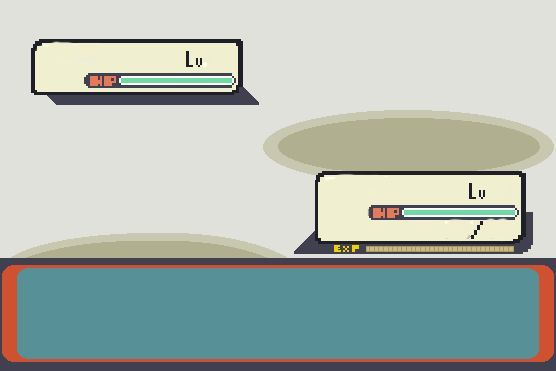
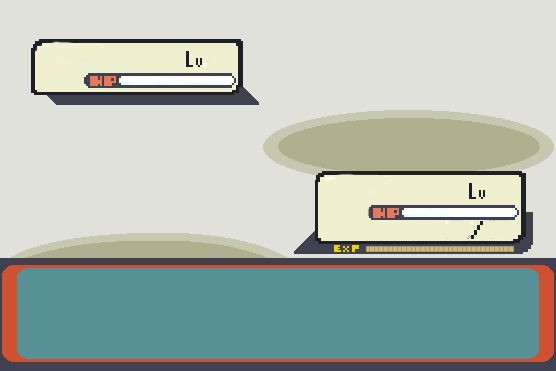
JS: avanzando pokemon

Changed region(s): [[0.7032, 0.5633, 0.9478, 0.593], [0.214, 0.2075, 0.4281, 0.2372]]

diff --git a/DWC_JS/PokeVue/js/main.js b/DWC_JS/PokeVue/js/main.js
@@ -7,12 +7,14 @@ const app = Vue.createApp({
             selectedPokemonsInModal: { player1: [], player2: [] },
             draggedPokemon: null,
             draggedFrom: null,
-            centerPokemons: [],
+            centerPokemons: { left: "", right: "" },
             savedPokemons: {},
             showWelcomeModal: true,
             showPvEModal: false,
             showPvPModal: false,
-            currentMode: null
+            currentMode: null,
+            hoveredPokemon: null,
+            hoverSide: null
         };
     },
 
@@ -105,9 +107,27 @@ const app = Vue.createApp({
             // If 5 Pokémon are selected in PvE mode, close the modal
             if (this.currentMode === 'pve' && this.selectedPokemonsInModal.player1.length === 5) {
                 this.selectedPokemonsLeft = [...this.selectedPokemonsInModal.player1];
+                this.selectedPokemonsRight = this.generateRandomNumbers().map(id => ({
+                    id,
+                    name: this.allPokemons.find(p => p.id === id)?.name || `Pokemon ${id}`
+                }));
                 this.closePvEModal();
+                this.autoPlaceFirstOpponent();
             }
         },
+
+        showPokemonStats(pokemon, side) {
+            console.log("Showing stats for:", pokemon.name, "on side:", side); // Debugging
+            this.hoveredPokemon = pokemon;
+            this.hoverSide = side;
+        },
+    
+        hidePokemonStats() {
+            console.log("Hiding stats"); // Debugging
+            this.hoveredPokemon = null;
+            this.hoverSide = null;
+        },
+        
 
         handleDragStart(pokemonId, side) {
             this.draggedPokemon = pokemonId;
@@ -194,12 +214,36 @@ const app = Vue.createApp({
         },
 
         placePokemonInCenter(pokemonEntry) {
-            this.centerPokemons = this.centerPokemons.filter(pokemon => pokemon.class !== pokemonEntry.class);
-            this.centerPokemons.push(pokemonEntry);
-            this.updateBattleMoves(pokemonEntry.moves);
+            // Ensure the correct slot is updated based on the Pokémon's original side
+            if (pokemonEntry.class.includes('overlay-image-left')) {
+                this.centerPokemons.left = pokemonEntry; // Left-side Pokémon
+            } else {
+                this.centerPokemons.right = pokemonEntry; // Right-side Pokémon
+            }
+        
+            // Update battle moves only for the left Pokémon (the player’s Pokémon)
+            if (pokemonEntry.class.includes('overlay-image-left')) {
+                this.updateBattleMoves(pokemonEntry.moves);
+            }
+        
             this.draggedPokemon = null;
             this.draggedFrom = null;
+        },        
+
+        autoPlaceFirstOpponent() {
+            if (this.selectedPokemonsRight.length > 0) {
+                const firstPokemon = this.selectedPokemonsRight[0];
+                this.fetchPokemonData(firstPokemon.id)
+                    .then(data => {
+                        this.savedPokemons[firstPokemon.id] = data;
+                        data.class = "overlay-image-right"; // Ensure it is classified as a right-side Pokémon
+                        this.placePokemonInCenter(data);
+                    })
+                    .catch(error => console.error("Error placing first opponent:", error));
+            }
         },
+        
+        
 
         updateBattleMoves(moves) {
             document.querySelectorAll('.fight-buttons button').forEach((button, index) => {
@@ -228,11 +272,6 @@ const app = Vue.createApp({
         },
 
         useMove(moves, index) {
-            if (!this.centerPokemons.length) {
-                console.log("No Pokémon in the center to use a move!");
-                return;
-            }
-
             let move = moves[index];
             if (move.movePP === 0 || move.remainMovePP > 0) {
                 move.remainMovePP = move.movePP === 0 ? move.remainMovePP : move.remainMovePP - 1;

diff --git a/DWC_JS/PokeVue/index.html b/DWC_JS/PokeVue/index.html
@@ -87,9 +87,20 @@
                      :key="'left-' + index" 
                      class="square"
                      draggable="true"
-                     @dragstart="handleDragStart(pokemon.id, 'left')">
+                     @dragstart="handleDragStart(pokemon.id, 'left')"
+                     @mouseenter="showPokemonStats(pokemon, 'left')"
+                     @mouseleave="hidePokemonStats">
                     <img :src="`https://raw.githubusercontent.com/PokeAPI/sprites/master/sprites/pokemon/other/official-artwork/${pokemon.id}.png`" 
                          alt="Pokemon">
+                    <div v-if="hoveredPokemon && hoveredPokemon.id === pokemon.id && hoverSide === 'left'" class="pokemon-stats left">
+                        <h3>{{ hoveredPokemon.name }} Stats</h3>
+                        <div class="stats-grid">
+                            <div><strong>HP:</strong> {{ hoveredPokemon.stats.hp }}</div>
+                            <div><strong>Attack:</strong> {{ hoveredPokemon.stats.attack }}</div>
+                            <div><strong>Defense:</strong> {{ hoveredPokemon.stats.defense }}</div>
+                            <div><strong>Speed:</strong> {{ hoveredPokemon.stats.speed }}</div>
+                        </div>
+                    </div>
                 </div>
             </div>
 
@@ -111,6 +122,14 @@
                 <div class="turn-right">
                     <img src="./img/bubleTurn-right.png" class="bubbleTurn-right">
                     <img  src="./img/tick.png" class="tick-right">
+                </div>
+
+                <div class="hpBarLeft">
+
+                </div>
+
+                <div class="hpBarRight">
+
                 </div>
 
                 <div class="battleUI">
@@ -174,11 +193,22 @@
                      :key="'right-' + index" 
                      class="square" 
                      draggable="true"
-                     @dragstart="handleDragStart(pokemon.id, 'right')"> 
+                     @dragstart="handleDragStart(pokemon.id, 'right')"
+                     @mouseenter="showPokemonStats(pokemon, 'right')"
+                     @mouseleave="hidePokemonStats"> 
                     <img :src="`https://raw.githubusercontent.com/PokeAPI/sprites/master/sprites/pokemon/other/official-artwork/${pokemon.id}.png`"
                          alt="Pokemon"> 
+                    <div v-if="hoveredPokemon && hoveredPokemon.id === pokemon.id && hoverSide === 'right'" class="pokemon-stats right">
+                        <h3>{{ hoveredPokemon.name }} Stats</h3>
+                        <div class="stats-grid">
+                            <div><strong>HP:</strong> {{ hoveredPokemon.stats.hp }}</div>
+                            <div><strong>Attack:</strong> {{ hoveredPokemon.stats.attack }}</div>
+                            <div><strong>Defense:</strong> {{ hoveredPokemon.stats.defense }}</div>
+                            <div><strong>Speed:</strong> {{ hoveredPokemon.stats.speed }}</div>
+                        </div>
+                    </div>
                 </div> 
-            </div> 
+            </div>
         </div>
     </div>
     <script src="js/main.js"></script>

diff --git a/DWC_JS/PokeVue/css/main.css b/DWC_JS/PokeVue/css/main.css
@@ -35,6 +35,32 @@ body {
   gap: 10px;
 }
 
+.pokemon-stats {
+  position: absolute;
+  background: white;
+  border: 1px solid #ccc;
+  padding: 10px;
+  z-index: 1000;
+  width: 200px;
+  box-shadow: 0 0 10px rgba(0, 0, 0, 0.1);
+}
+
+.pokemon-stats.left {
+  top: 0;
+  left: 100%;
+}
+
+.pokemon-stats.right {
+  top: 0;
+  right: 100%;
+}
+
+.stats-grid {
+  display: grid;
+  grid-template-columns: repeat(2, 1fr);
+  gap: 5px;
+}
+
 .square {
   width: 100px;
   height: 100px;
@@ -68,6 +94,29 @@ body {
   max-width: 100%;
   max-height: 100%;
 }
+
+.hpBarLeft {
+  position: absolute;
+  width: 128px; /* Adjust as needed */
+  height: 6px; /* Adjust thickness */
+  background-color: green;
+  top: 224.5px; /* Adjust position */
+  left: 496px; /* Adjust position */
+  border-radius: 5px;
+
+}
+
+.hpBarRight {
+  position: absolute;
+  width: 128px; /* Adjust as needed */
+  height: 6px; /* Adjust thickness */
+  background-color: green;
+  top: 93px; /* Adjust position */
+  left: 169px; /* Adjust position */
+  border-radius: 5px;
+
+}
+
 
 .battleMap{
   width: 92%;
